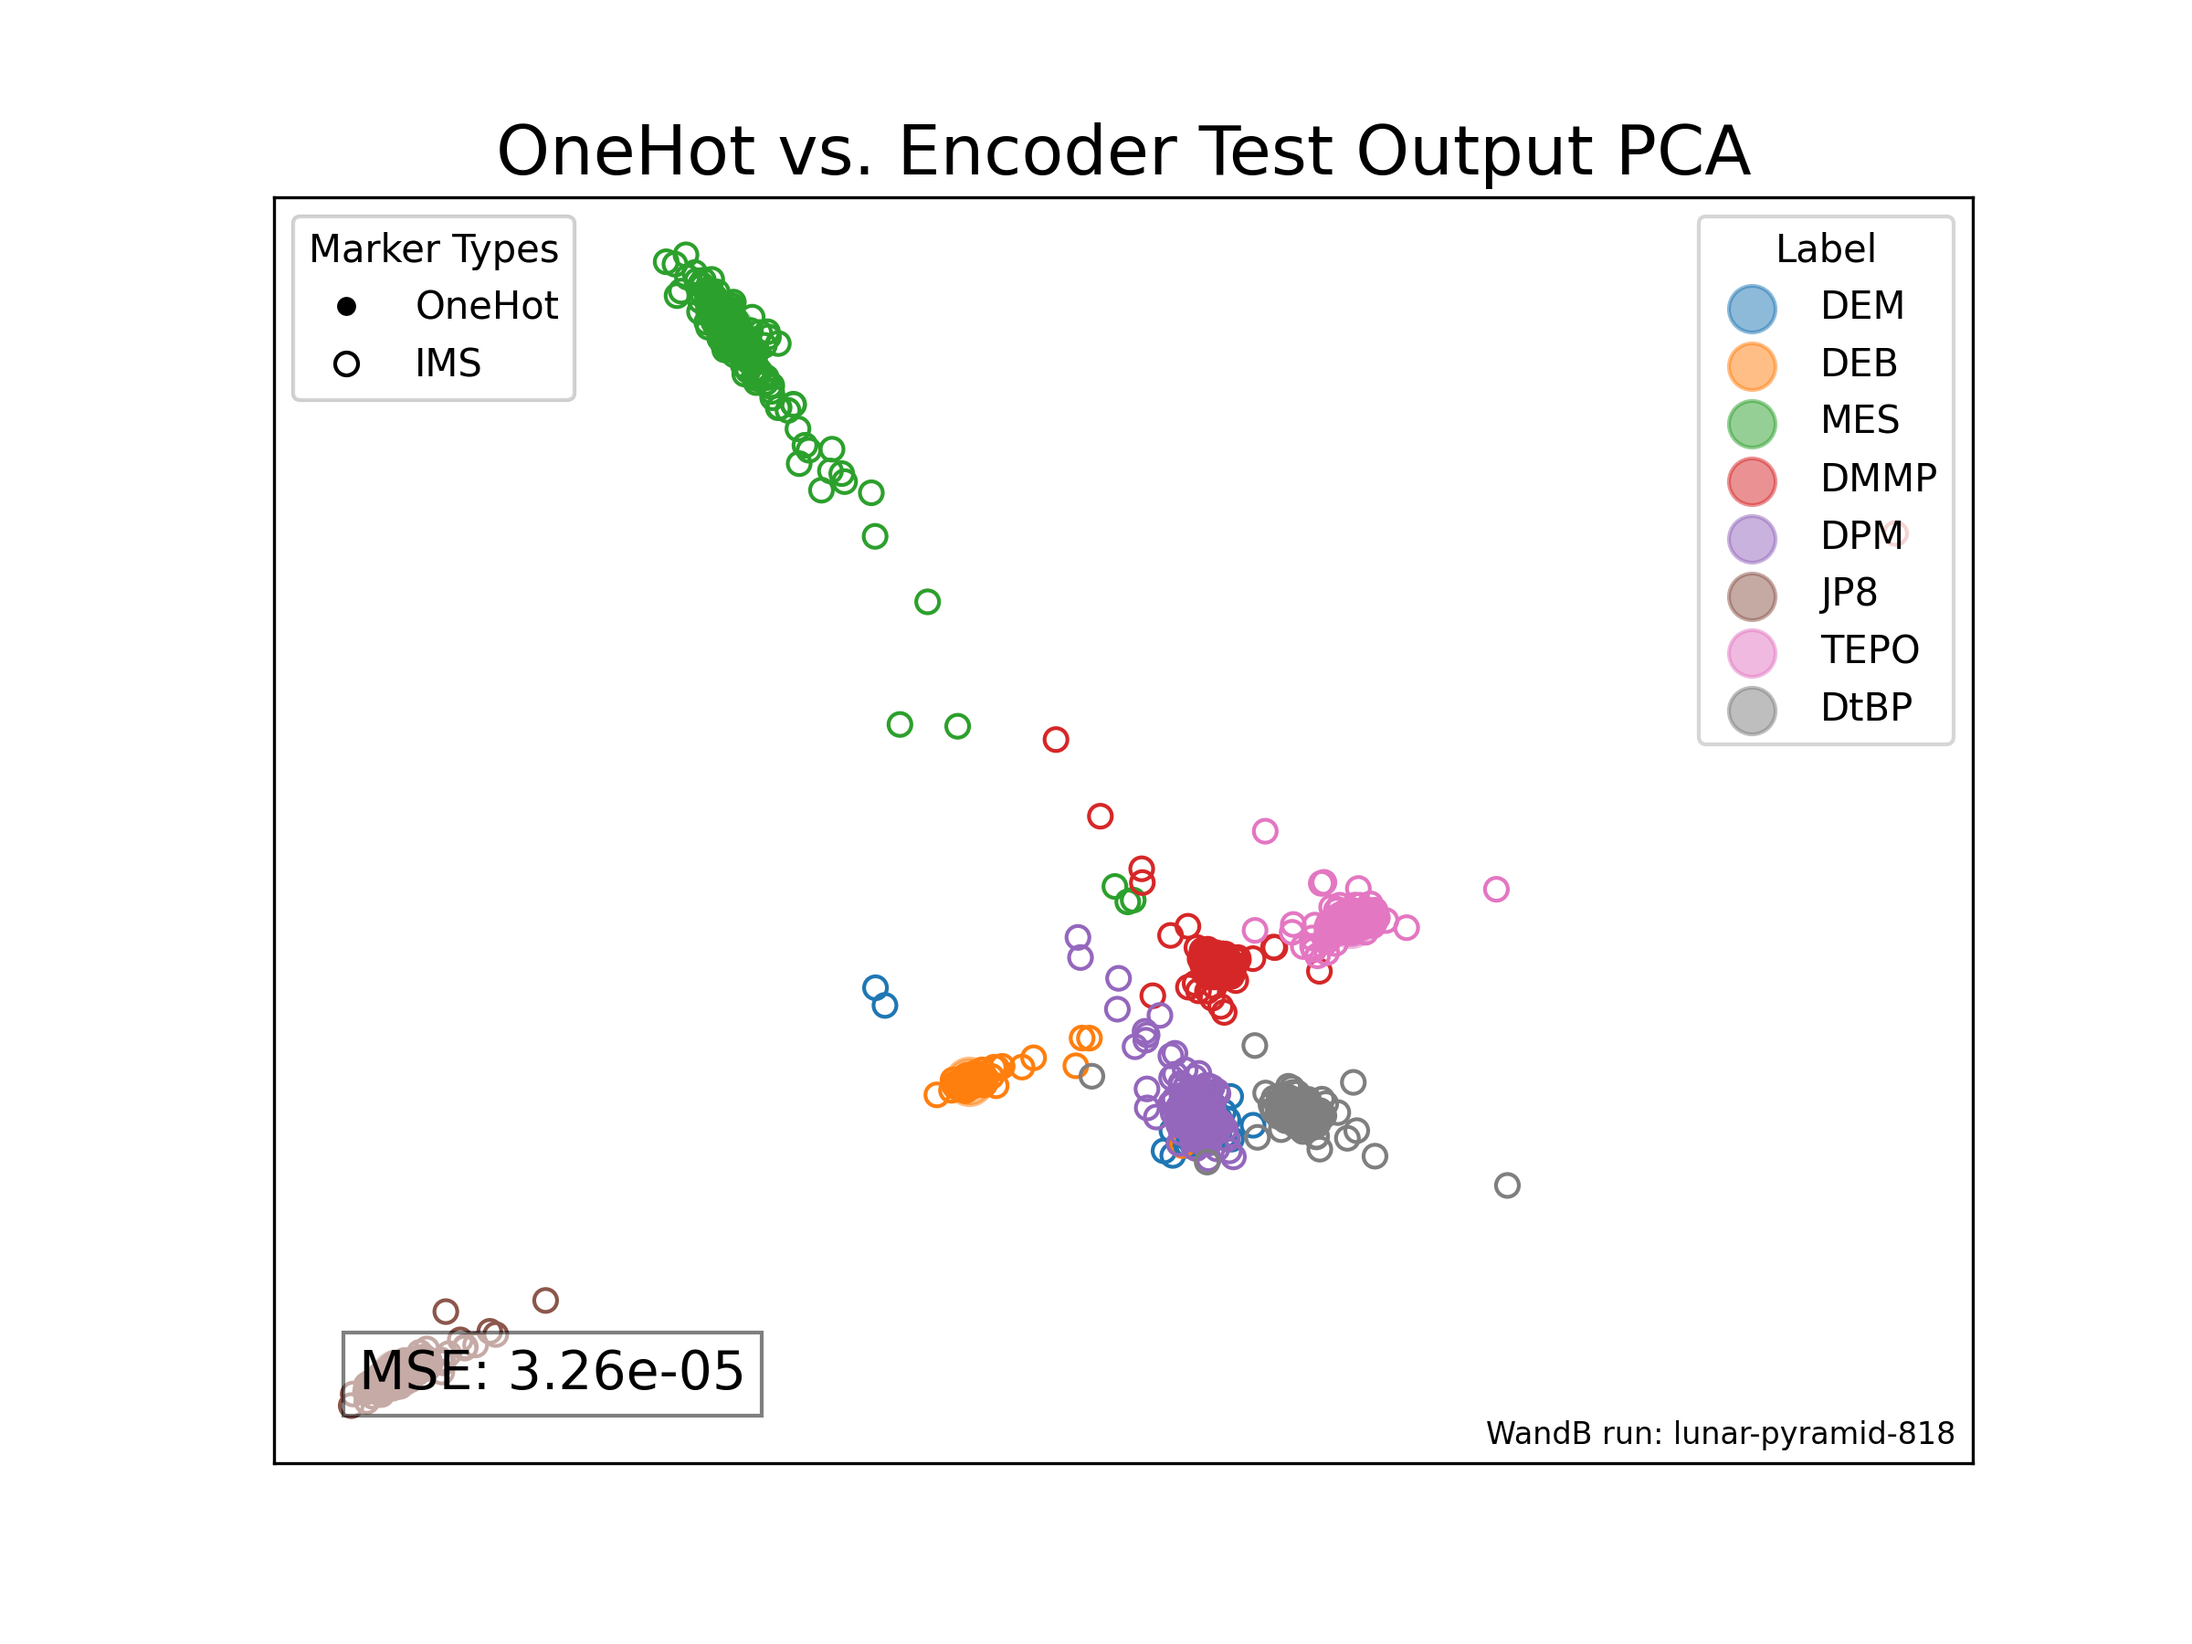
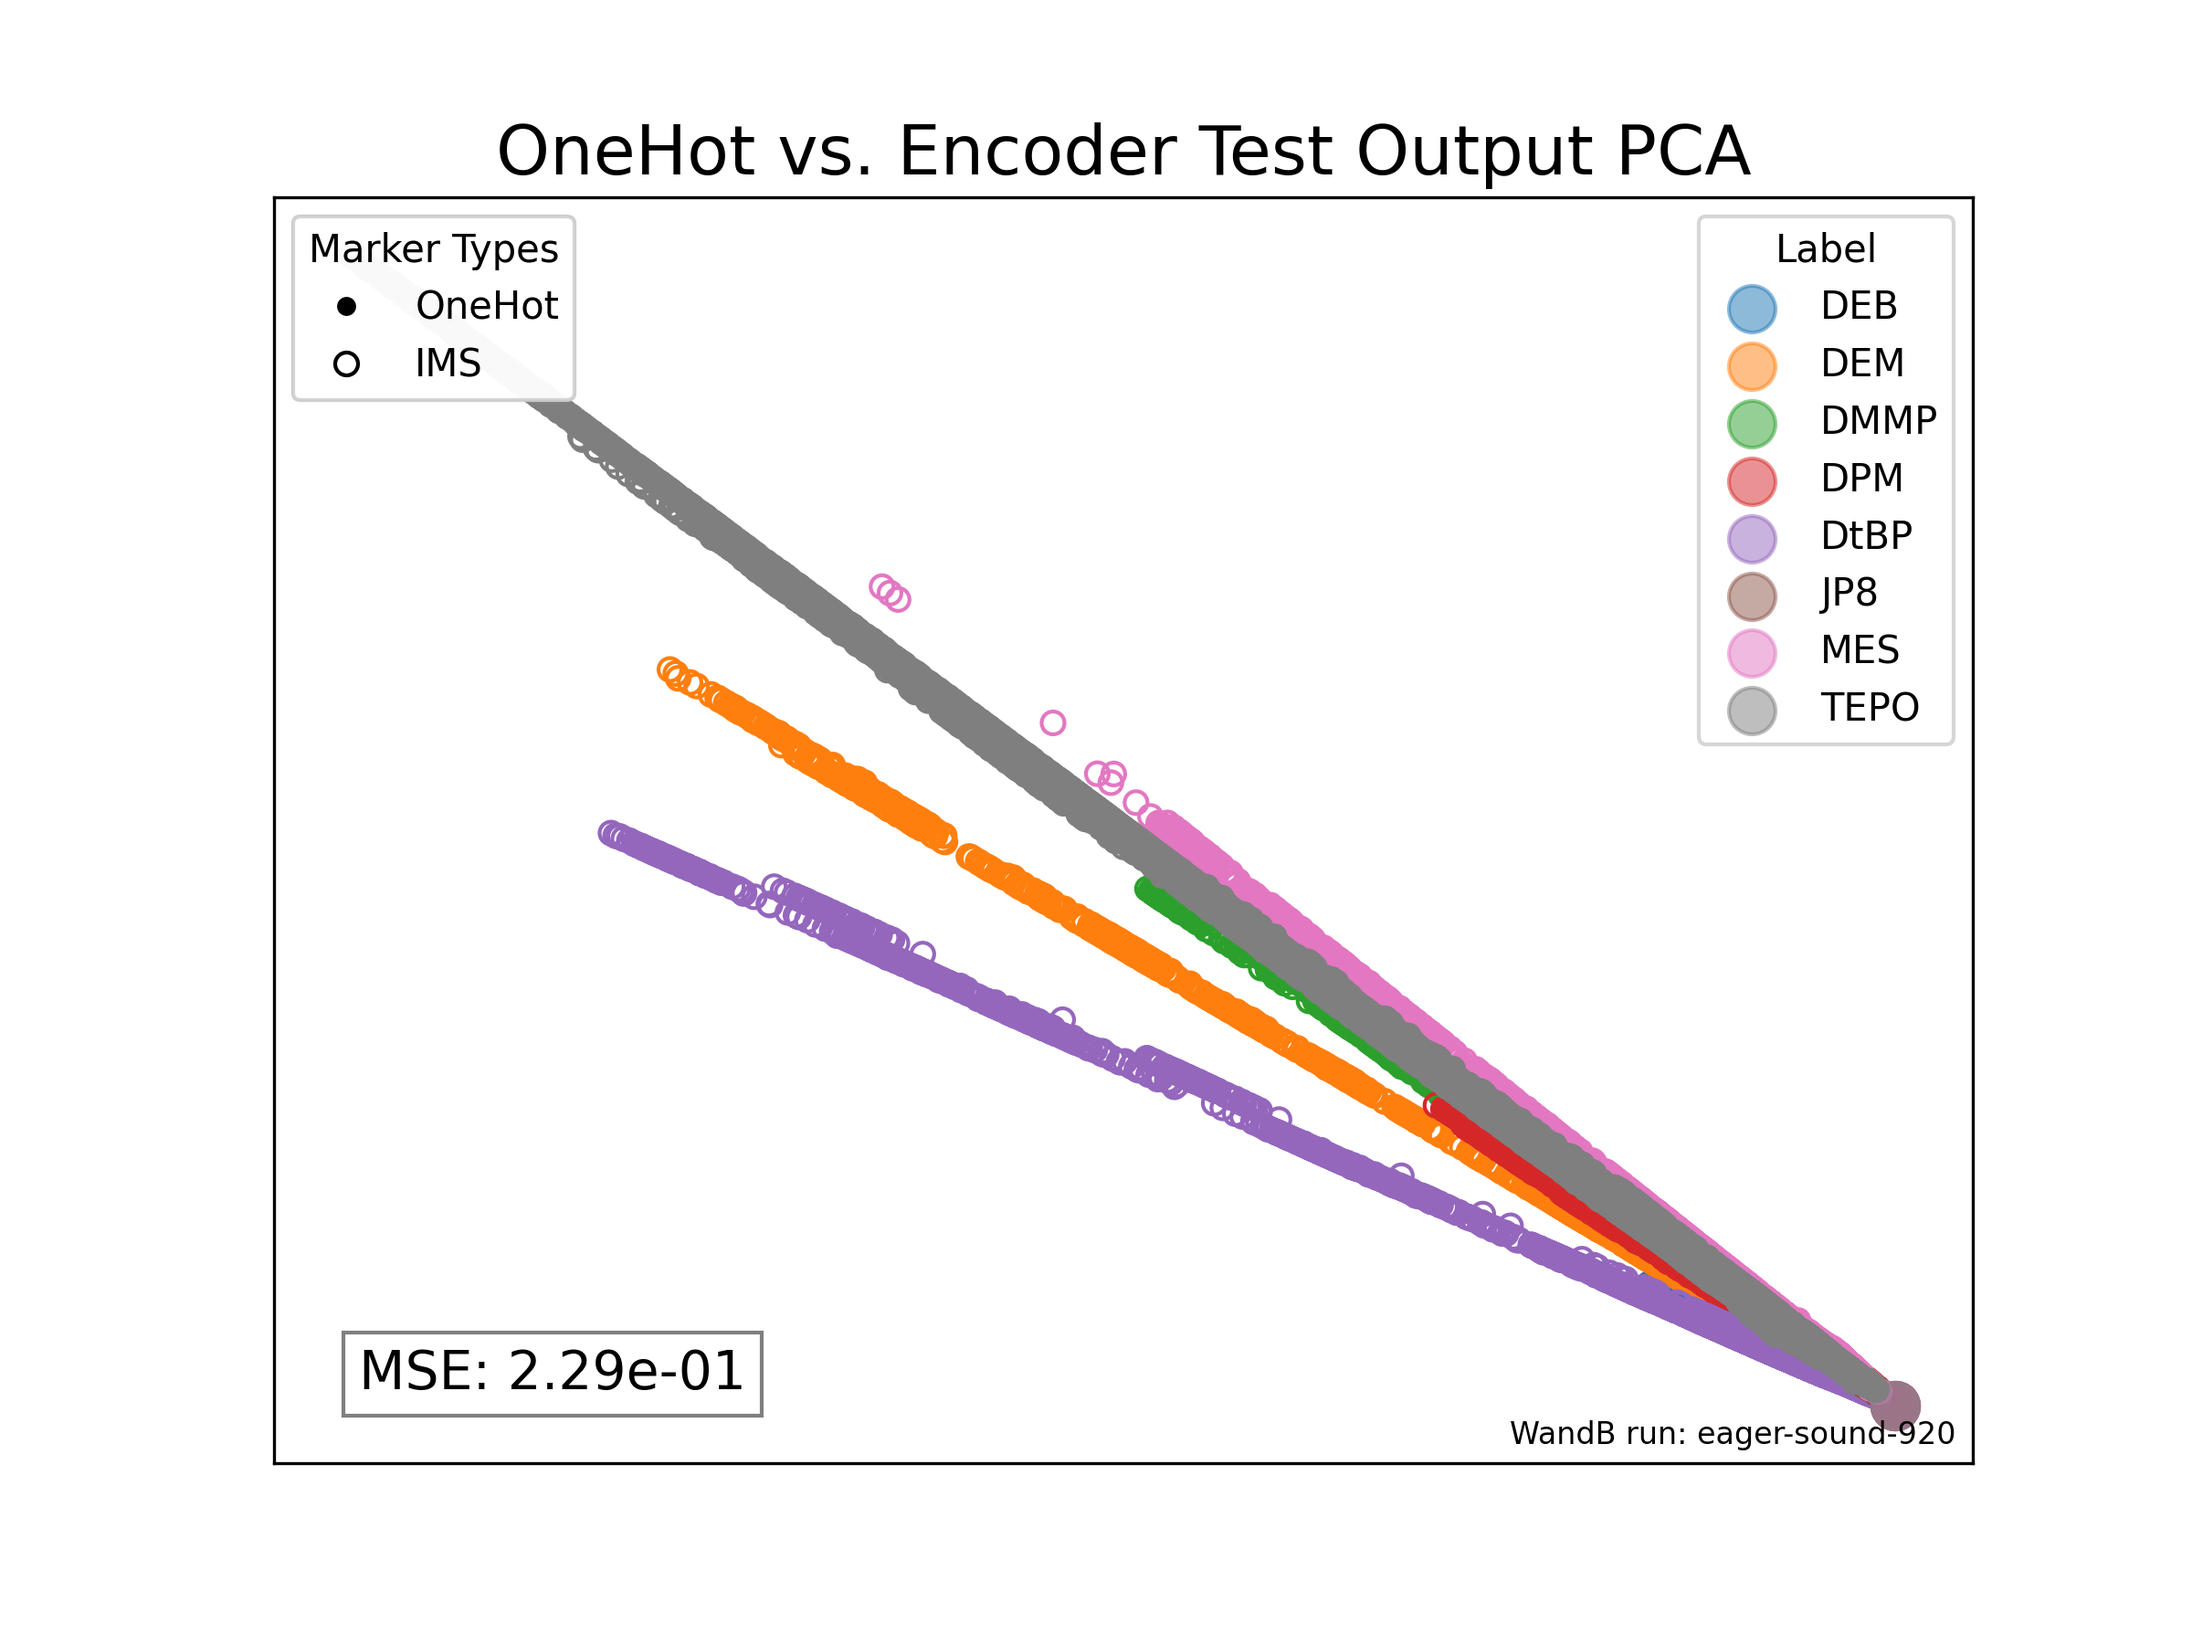
Fix size of one-hot embedding in ims to onehot encoder

diff --git a/models/uninformative_embeddings/ims_to_onehot_encoder.py b/models/uninformative_embeddings/ims_to_onehot_encoder.py
@@ -3,14 +3,15 @@ import pandas as pd
 import numpy as np
 #%%
 from torch.utils.data import TensorDataset
-import os
-import sys
 import torch.nn as nn
 #%%
 import uninformative_embeddings_functions as adv_emb_f
+import os
+import sys
 parent_dir = os.path.abspath(os.path.join(os.path.dirname(__file__), '..'))
 sys.path.append(parent_dir)
 import functions as f
+#%%
 
 # Things that need to be changed for each encoder/dataset/target embedding
 notebook_name = '/home/cmdunham/ChemicalDataGeneration/models/uninformative_embeddings/ims_to_onehot_encoder.py'
@@ -66,7 +67,7 @@ onehot_matrix[:, :8] = np.eye(8, dtype=np.float32)
 cols = sorted_chem_names + [f"zero_{i}" for i in range(8, 512)]
 embedding_df = pd.DataFrame(onehot_matrix, columns=cols, index=sorted_chem_names)
 embedding_df['Embedding Floats'] = embedding_df.apply(lambda row: row.values.tolist(), axis=1)
-print(embedding_df.head())
+# print(embedding_df.head())
 #%%
 # # format one-hot encoded embeddings correctly for f.create_dataset_tensors
 # true_embeddings = pd.get_dummies(sorted_chem_names, dtype=np.float32)
@@ -77,11 +78,11 @@ print(embedding_df.head())
 #%%
 
 class_weights = f.get_class_weights(train_spectra, device)
+#%%
 
 y_train, x_train, train_chem_encodings_tensor, train_carl_indices_tensor = f.create_dataset_tensors(
     train_spectra, embedding_df, device, start_idx=start_idx, stop_idx=stop_idx)
 del train_spectra
-
 
 # #%%
 file_path = '/home/cmdunham/scratch/val_data.feather'
@@ -95,7 +96,7 @@ test_spectra = pd.read_feather(file_path)
 y_test, x_test, test_chem_encodings_tensor, test_carl_indices_tensor = f.create_dataset_tensors(
     test_spectra, embedding_df, device, start_idx=start_idx, stop_idx=stop_idx)
 del test_spectra
-# %%
+#%%
 
 # Combine ChemNet embeddings and OneHot embeddings so PCA plots are comparable
 file_path = '/home/cmdunham/scratch/name_smiles_embedding_file.csv'
@@ -103,14 +104,19 @@ smiles_chemnet_embeddings_df = f.format_embedding_df(file_path)
 chemnet_embeddings = pd.DataFrame([emb for emb in smiles_chemnet_embeddings_df['Embedding Floats']][1:]).T
 cols = [f"{col} ChemNet" for col in smiles_chemnet_embeddings_df.index[1:]]
 chemnet_embeddings.columns = cols
+# print(chemnet_embeddings.isna().sum())
+#%%
 
 onehot_embeddings = pd.DataFrame([emb for emb in embedding_df['Embedding Floats']]).T
-onehot_embeddings.columns = cols
+onehot_embeddings.columns = sorted_chem_names
 # padding onehot embeddings with zeros to match chemnet embeddings
-zeros_df = pd.DataFrame(np.zeros((504, 8)), columns=onehot_embeddings.columns)
-onehot_embeddings = pd.concat([zeros_df, onehot_embeddings], axis=0).reset_index(drop=True)
+# zeros_df = pd.DataFrame(np.zeros((504, 8)), columns=onehot_embeddings.columns)
+# onehot_embeddings = pd.concat([zeros_df, onehot_embeddings], axis=0).reset_index(drop=True)
 all_true_embeddings = pd.concat([chemnet_embeddings, onehot_embeddings], axis=1)
-# #%%
+# print(all_true_embeddings.head())
+# print(all_true_embeddings.isna().sum())
+# print(all_true_embeddings.shape)
+#%%
 
 train_data = TensorDataset(x_train, train_chem_encodings_tensor, y_train, train_carl_indices_tensor)
 val_data = TensorDataset(x_val, val_chem_encodings_tensor, y_val, val_carl_indices_tensor)
@@ -127,6 +133,6 @@ for n_layers in n_layers_list:
         all_true_embeddings, onehot_embeddings, model_hyperparams, sorted_chem_names, 
         encoder_path, criterion, input_type='IMS', embedding_type='OneHot',
         early_stop_threshold=early_stopping_threshold, lr_scheduler=True, 
-        patience=lr_scheduler_patience, save_emb_pca_to_wandb=False
+        patience=lr_scheduler_patience, save_emb_pca_to_wandb=True
         )
 # %%

diff --git a/models/functions.py b/models/functions.py
@@ -243,10 +243,14 @@ def run_generator(
 # ------------------------------------------------------------------------------------------
 # ------------------------------------------------------------------------------------------
 
-def get_class_weights(data, device):
+def get_class_weights(data, device, weights_dimension=512):
     class_counts = dict(sorted(Counter(data['Label']).items()))
     class_weights = {cls: len(data) / count for cls, count in class_counts.items()}
     class_weights = torch.tensor(list(class_weights.values()))
+    # Pad class_weights with zeros to match the required length of 512
+    if len(class_weights) < weights_dimension:
+        padding = torch.zeros(weights_dimension - len(class_weights), dtype=torch.float32)
+        class_weights = torch.cat([class_weights, padding])
     return class_weights.to(device)
 # ------------------------------------------------------------------------------------------
 # ------------------------------------------------------------------------------------------
